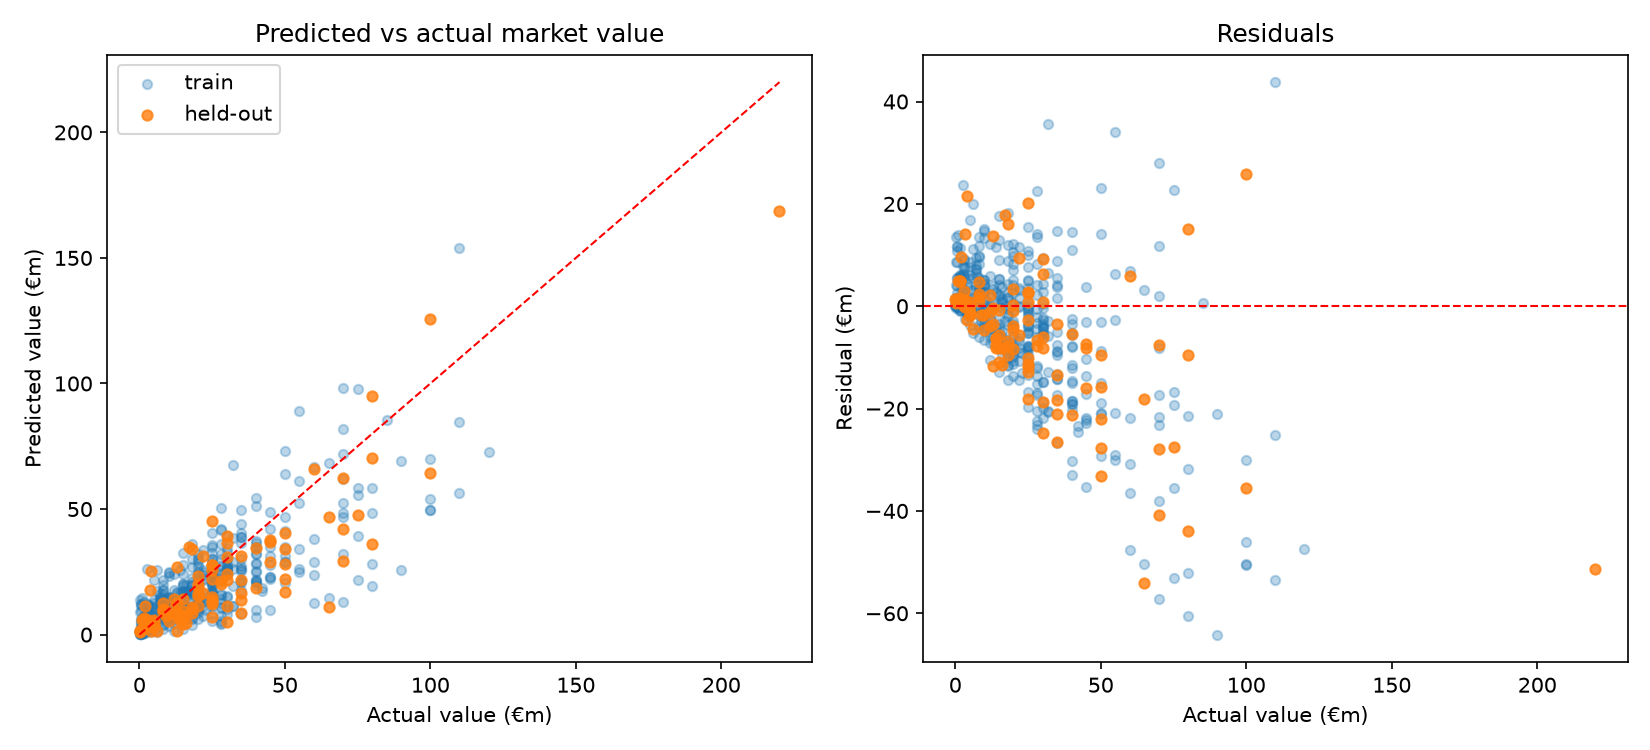
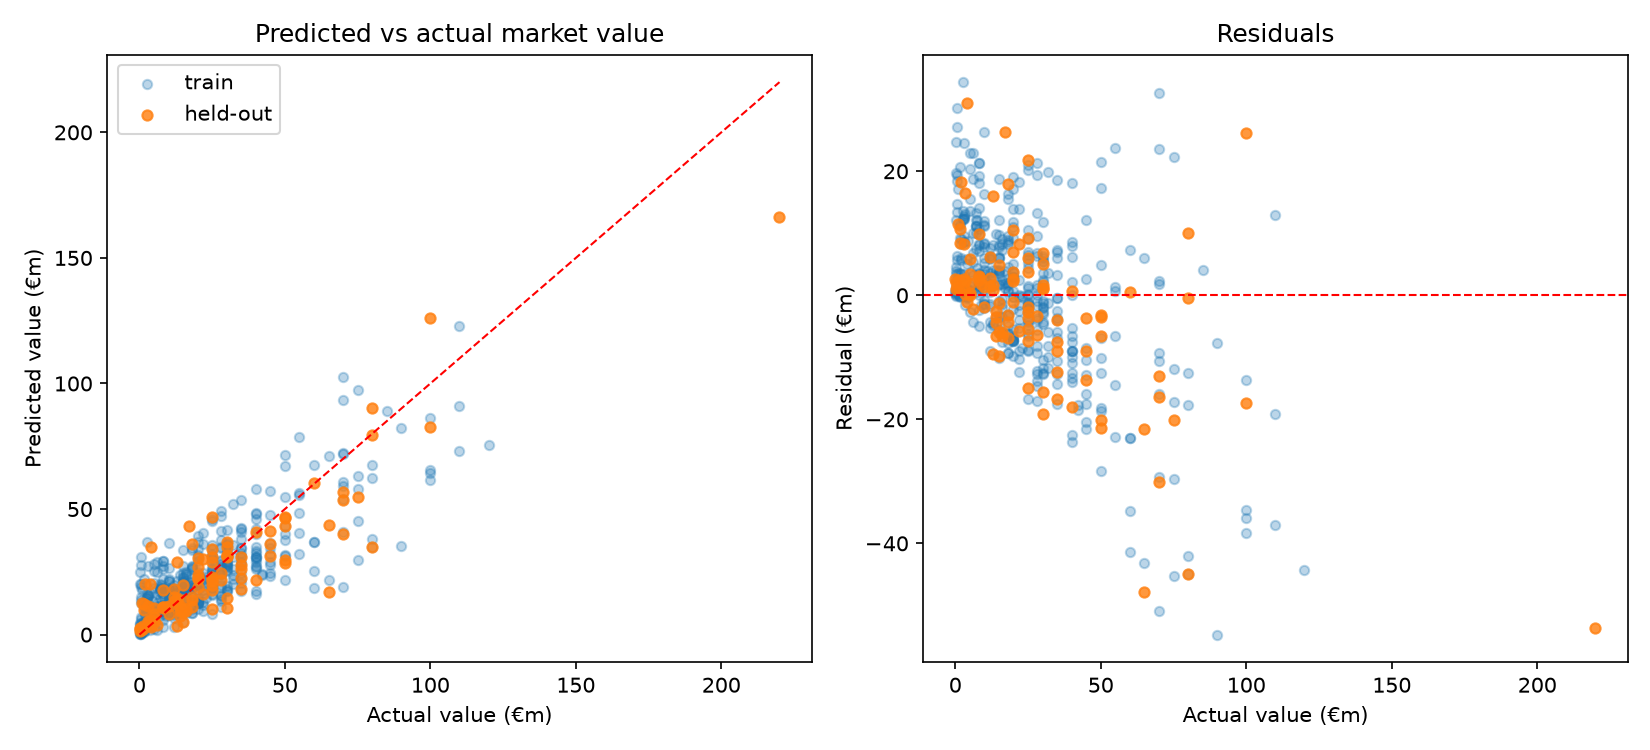
Weight training by sqrt(value) to reduce star-player under-prediction
Plain log-value regression let cheap players outvote stars, so the top decile
was predicted ~24% too low. sqrt(value) sample weights cut CV MAE from
EUR10.3m to EUR9.8m and top-decile MAE from EUR32m to EUR26m (log R^2 0.55 ->
0.51). CV now also reports top-decile MAE and predicted/actual ratio.

diff --git a/src/model.py b/src/model.py
@@ -10,7 +10,7 @@ import pandas as pd
 from sklearn.compose import ColumnTransformer
 from sklearn.linear_model import LinearRegression
 from sklearn.metrics import mean_absolute_error, r2_score, root_mean_squared_error
-from sklearn.model_selection import KFold, cross_val_predict
+from sklearn.model_selection import KFold
 from sklearn.pipeline import Pipeline
 from sklearn.preprocessing import OneHotEncoder, StandardScaler
 
@@ -39,11 +39,27 @@ def build_pipeline() -> Pipeline:
     return Pipeline([("preprocess", preprocessor), ("regressor", LinearRegression())])
 
 
+def value_weights(values: np.ndarray) -> np.ndarray:
+    """Training weights that grow with the square root of a player's value.
+
+    Fitting log-value with equal weights optimises *relative* error, so the
+    dozens of cheap players outvote the handful of stars and the top decile is
+    predicted ~24% too low. Weighting by sqrt(value) trades a little log-scale
+    R^2 for lower euro error overall (MAE 10.3m -> 9.8m) and on stars (32m -> 26m).
+    """
+    values = np.asarray(values, dtype=float)
+    return np.sqrt(values / values.mean())
+
+
+def fit_pipeline(pipeline: Pipeline, X: pd.DataFrame, y_log: pd.Series) -> Pipeline:
+    weights = value_weights(np.expm1(y_log))
+    return pipeline.fit(X, y_log, regressor__sample_weight=weights)
+
+
 def train(df: pd.DataFrame) -> tuple[Pipeline, dict]:
     X_train, X_test, y_train, y_test = train_test_split_dataset(df)
 
-    pipeline = build_pipeline()
-    pipeline.fit(X_train, y_train)
+    pipeline = fit_pipeline(build_pipeline(), X_train, y_train)
 
     y_pred_log = pipeline.predict(X_test)
     y_pred = np.expm1(y_pred_log)
@@ -65,12 +81,20 @@ def cross_validate_model(df: pd.DataFrame, n_splits: int = 5, random_state: int 
     """
     X, y = split_features_target(df)
     cv = KFold(n_splits=n_splits, shuffle=True, random_state=random_state)
-    y_pred_log = cross_val_predict(build_pipeline(), X, y, cv=cv)
+    y_pred_log = pd.Series(0.0, index=y.index)
+    for train_idx, test_idx in cv.split(X):
+        fitted = fit_pipeline(build_pipeline(), X.iloc[train_idx], y.iloc[train_idx])
+        y_pred_log.iloc[test_idx] = fitted.predict(X.iloc[test_idx])
     y_true, y_pred = np.expm1(y), np.expm1(y_pred_log)
+
+    # Mean predicted/actual for the most valuable 10% of players; 1.0 = unbiased.
+    top = y_true >= y_true.quantile(0.9)
     return {
         "cv_r2_log": r2_score(y, y_pred_log),
         "cv_mae_eur": mean_absolute_error(y_true, y_pred),
         "cv_rmse_eur": root_mean_squared_error(y_true, y_pred),
+        "cv_top_decile_mae_eur": mean_absolute_error(y_true[top], y_pred[top]),
+        "cv_top_decile_ratio": float((y_pred[top] / y_true[top]).mean()),
     }
 
 
@@ -91,6 +115,8 @@ def main() -> None:
     logger.info("5-fold CV R^2 (log-value): %.3f", cv_metrics["cv_r2_log"])
     logger.info("5-fold CV MAE: €%.0f", cv_metrics["cv_mae_eur"])
     logger.info("5-fold CV RMSE: €%.0f", cv_metrics["cv_rmse_eur"])
+    logger.info("5-fold CV top-10%% MAE: €%.0f", cv_metrics["cv_top_decile_mae_eur"])
+    logger.info("5-fold CV top-10%% predicted/actual: %.2f", cv_metrics["cv_top_decile_ratio"])
 
     from src.evaluate import plot_predictions
 

diff --git a/tests/test_model.py b/tests/test_model.py
@@ -2,7 +2,7 @@ import numpy as np
 import pandas as pd
 
 from src.features import prepare_features
-from src.model import build_pipeline, train
+from src.model import build_pipeline, cross_validate_model, train, value_weights
 
 
 def _synthetic_df(n: int = 40, seed: int = 0) -> pd.DataFrame:
@@ -49,3 +49,25 @@ def test_train_produces_sane_metrics_and_predictions():
     preds = pipeline.predict(sample)
     assert preds.shape == (3,)
     assert np.all(np.isfinite(preds))
+
+
+def test_value_weights_grow_with_sqrt_of_value():
+    weights = value_weights(np.array([1e6, 4e6, 9e6, 100e6]))
+
+    assert np.all(np.diff(weights) > 0)
+    # sqrt scaling: 4x the value -> 2x the weight
+    assert np.isclose(weights[1] / weights[0], 2.0)
+
+
+def test_cross_validate_model_reports_all_metrics():
+    metrics = cross_validate_model(_synthetic_df(n=60), n_splits=3)
+
+    assert set(metrics) == {
+        "cv_r2_log",
+        "cv_mae_eur",
+        "cv_rmse_eur",
+        "cv_top_decile_mae_eur",
+        "cv_top_decile_ratio",
+    }
+    assert all(np.isfinite(v) for v in metrics.values())
+    assert metrics["cv_top_decile_ratio"] > 0

diff --git a/README.md b/README.md
@@ -49,12 +49,20 @@ python -m src.predict --age 24 --position "Centre-Forward" --club "Manchester Ci
 
 ## Current performance
 
-5-fold cross-validated on ~540 players: **R² ≈ 0.55** (on log value), **MAE ≈ €10.3m**.
+5-fold cross-validated on ~540 players: **R² ≈ 0.51** (on log value), **MAE ≈ €9.8m**.
 Trust the CV numbers over the single 80/20 split, which swings by ~0.1 R² between
-seeds at this dataset size. Tree models (random forest, gradient boosting) and
-position×stat interaction features were tried and did not beat the linear model.
-The model systematically under-predicts the very highest values (e.g. Haaland),
-which stats alone don't explain.
+seeds at this dataset size.
+
+Training weights players by √value. Plain log-value regression optimises
+*relative* error, so cheap players outvote the stars and the top 10% of players
+were predicted ~24% too low. The weighting cut overall MAE from €10.3m to €9.8m
+and top-decile MAE from €32m to €26m, at the cost of ~0.04 log-R². The model
+still under-predicts the very top (top-10% predicted/actual ≈ 0.80; Haaland comes
+out at ~€166m vs €220m): stats alone don't capture star premium.
+
+Also tried, and rejected: random forest / gradient boosting, position×stat
+interactions, sqrt/power target transforms (unstable on log-scale R²), boosting
+on residuals, and Duan smearing (removes the bias but raises overall MAE to €11.6m).
 
 ## Known limitations
 
